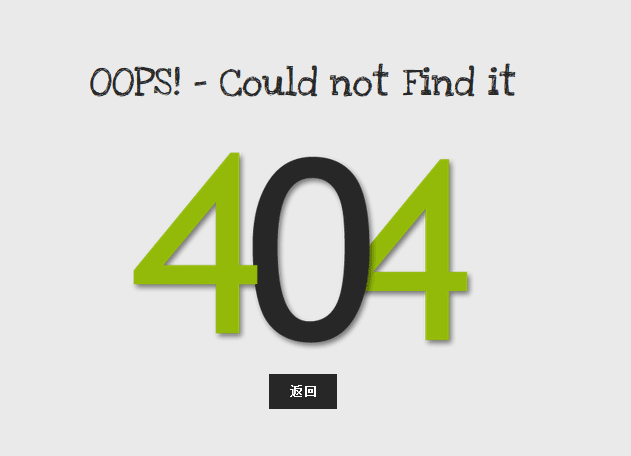
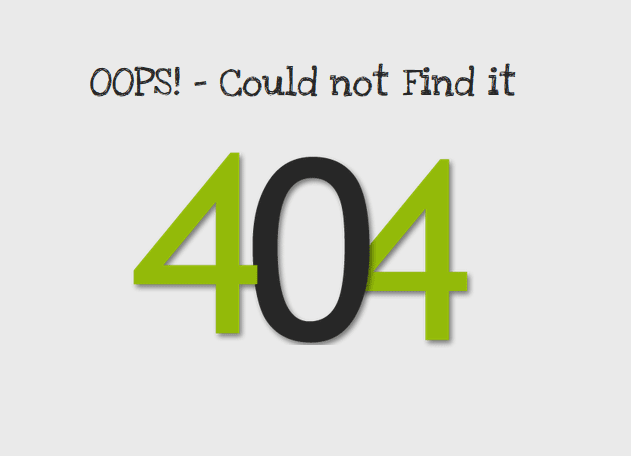
add 404 page display

Changed region(s): [[0.4216, 0.7982, 0.542, 0.9211], [0.4818, 0.7368, 0.5119, 0.7675]]

diff --git a/WlayTribune/WebContent/404.html b/WlayTribune/WebContent/404.html
@@ -1,9 +1,7 @@
-<%@ page language="java" contentType="text/html; charset=UTF-8"
-	pageEncoding="UTF-8"%>
 <!DOCTYPE HTML>
 <html>
 <head>
-<title>404 NOT FOUND</title>
+<title>oops! NotFound</title>
 <meta http-equiv="Content-Type" content="text/html; charset=utf-8" />
 <link href='http://fonts.useso.com/css?family=Love+Ya+Like+A+Sister'
 	rel='stylesheet' type='text/css'>
@@ -75,7 +73,7 @@ body {
 			<img src="image/404.png" />
 			<div class="sub">
 				<p>
-					<a href="${pageContext.request.contextPath }/index">返回 </a>
+					<a href="toIndex">返回 </a>
 				</p>
 			</div>
 		</div>
@@ -83,7 +81,7 @@ body {
 
 
 	<div class="footer">
-		Design by-<a href="#"></a>
+		Design by-WlayTeam<a href="#"></a>
 	</div>
 
 </body>
